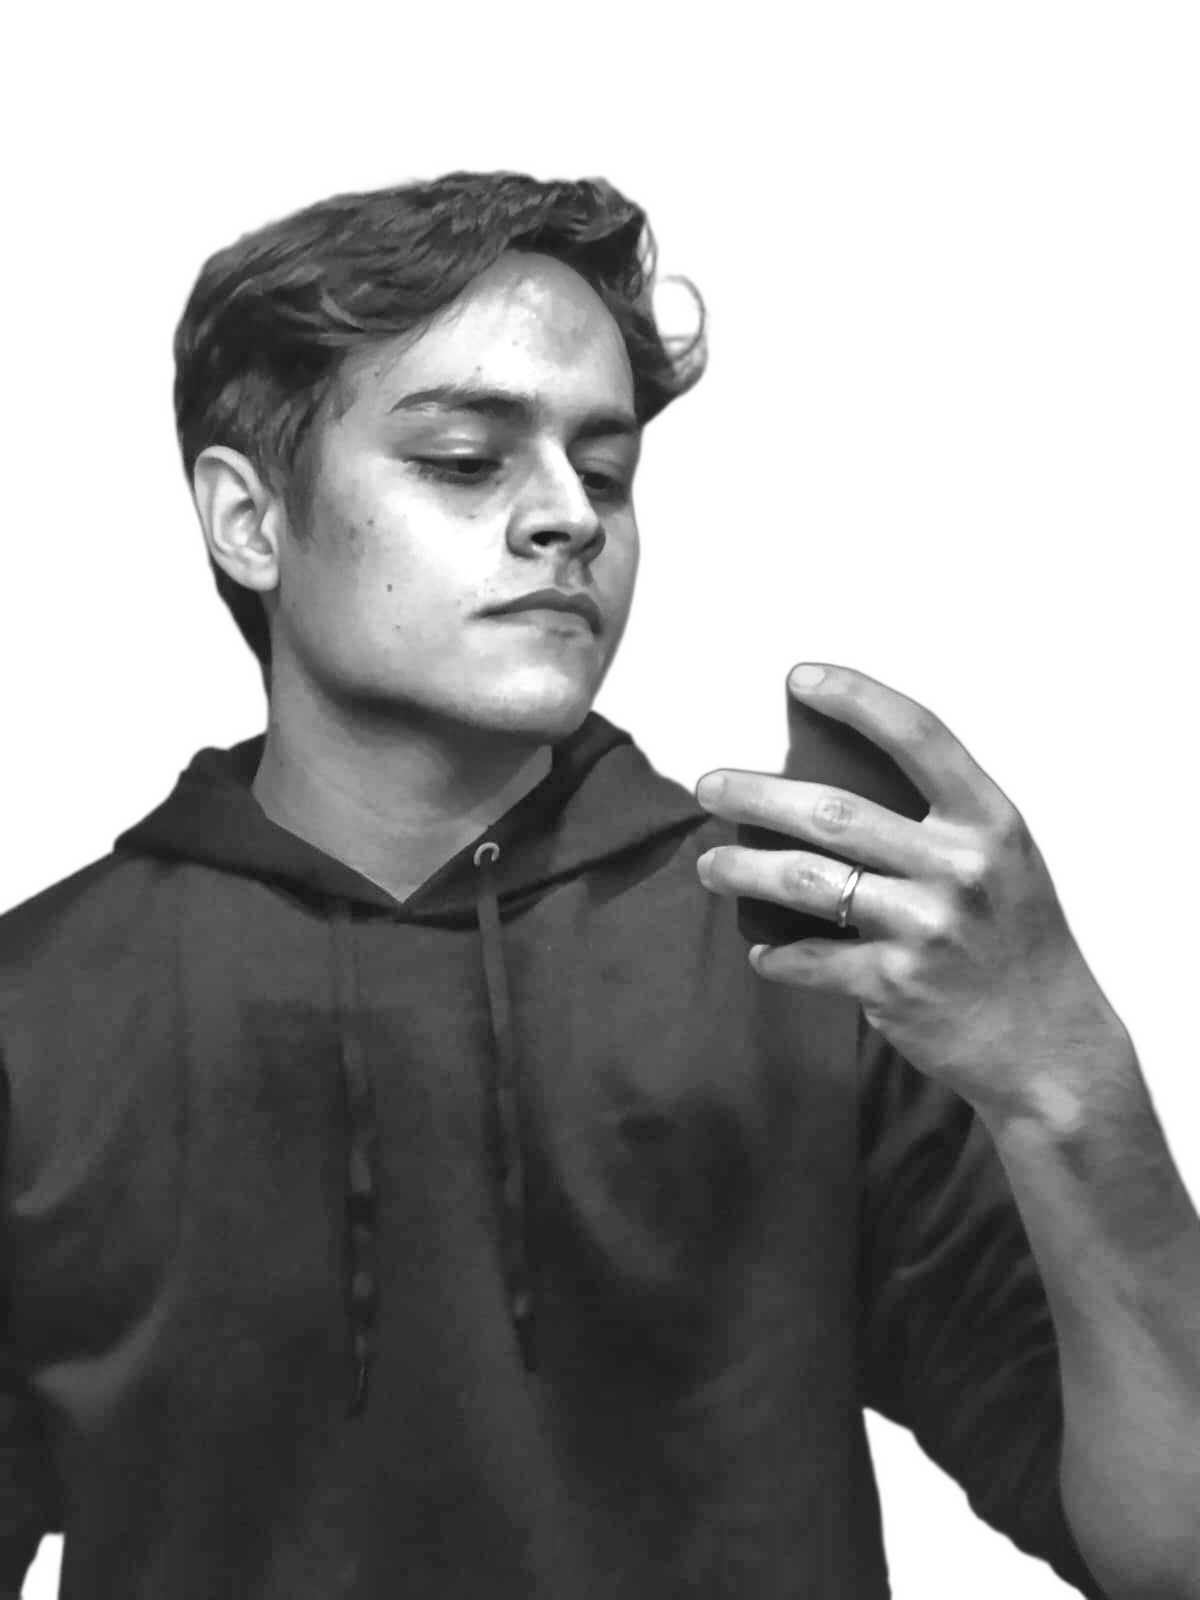
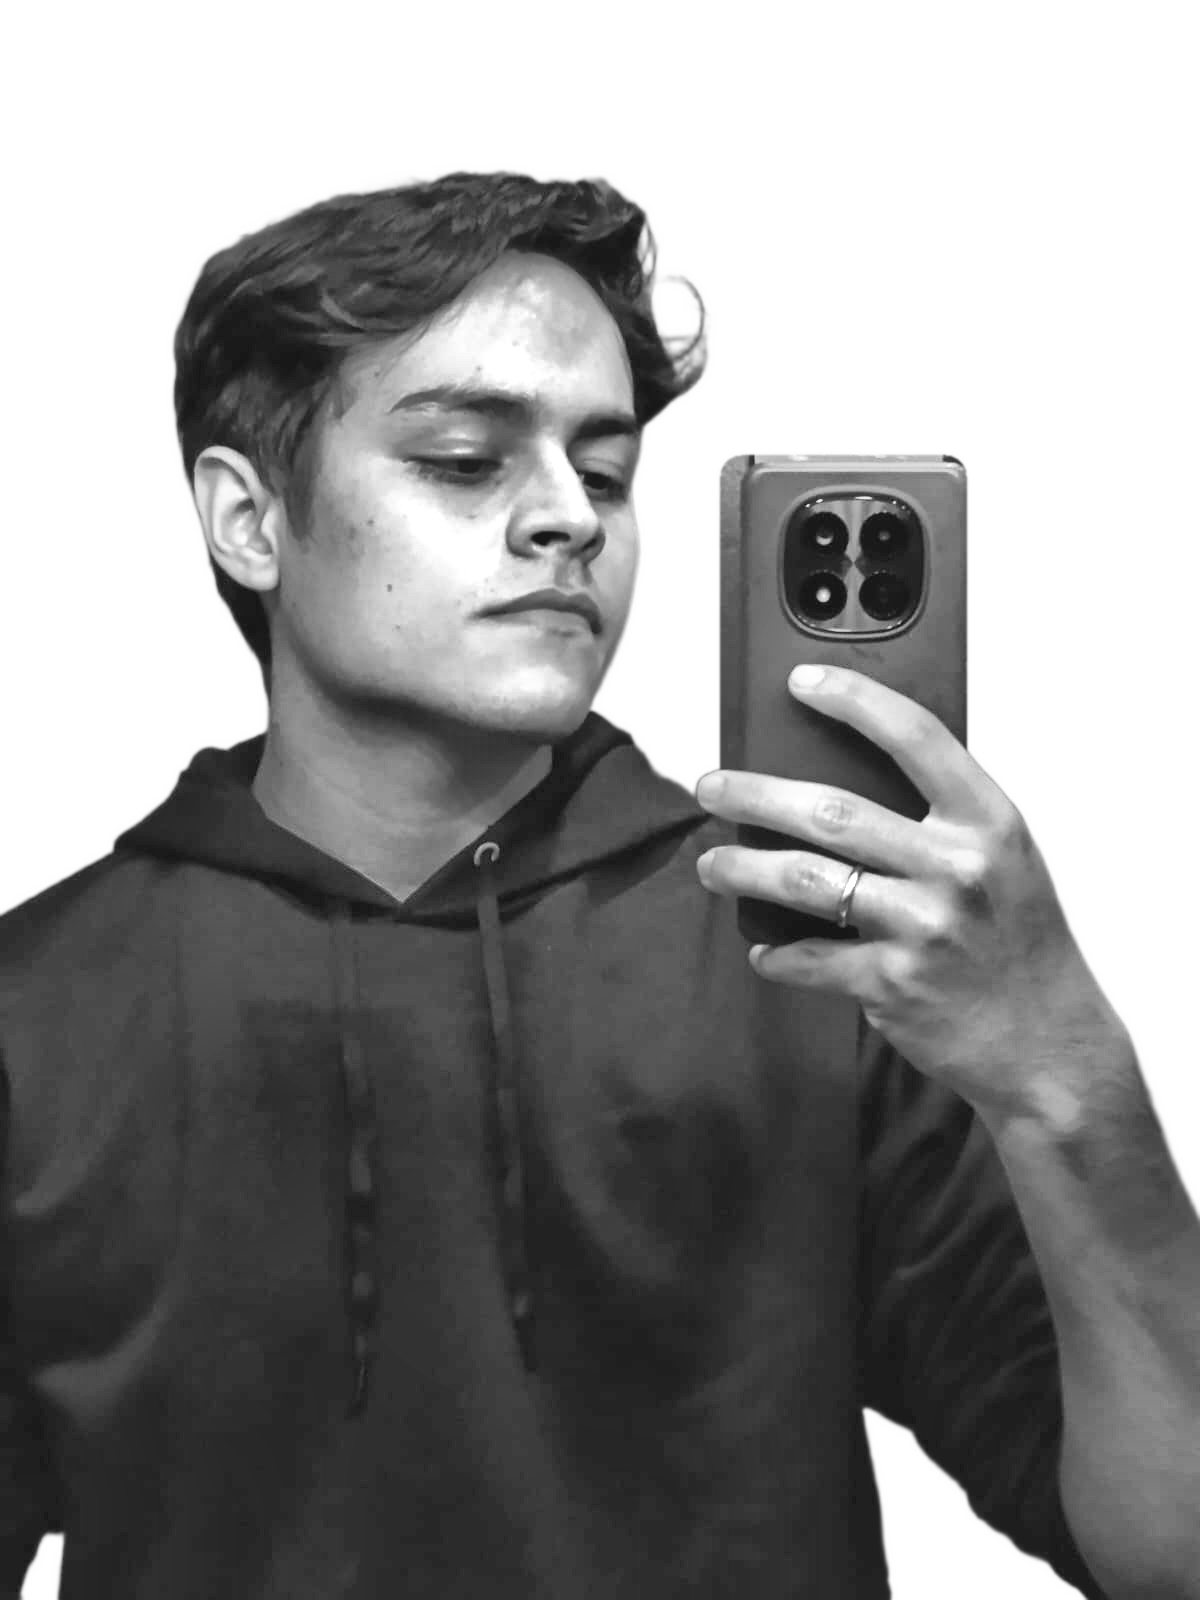
Atualiza layout e retrato ASCII do perfil

Changed region(s): [[0.5858, 0.2812, 0.8325, 0.5312], [0.4933, 0.2188, 0.555, 0.375]]

diff --git a/scripts/prep_photo.py b/scripts/prep_photo.py
@@ -23,10 +23,28 @@ HERE = os.path.dirname(os.path.abspath(__file__))
 INP = sys.argv[1] if len(sys.argv) > 1 else os.path.join(HERE, "..", "source-photo.jpg")
 OUT = sys.argv[2] if len(sys.argv) > 2 else os.path.join(HERE, "..", "source-prepped.png")
 
-# 1. cut out the subject
-cut = remove(Image.open(INP).convert("RGBA"))
-rgb = np.array(cut.convert("RGB"))
+# 1. cut out the subject. Keep RGB from the original image: rembg clears the
+# color channels of transparent pixels, but we restore the phone below.
+source = Image.open(INP).convert("RGBA")
+cut = remove(source)
+rgb = np.array(source.convert("RGB"))
 alpha = np.array(cut.split()[-1])                 # 0 = background
+
+# rembg recognizes the person and hand well, but can treat the dark phone as
+# part of the background. Preserve the phone body for this portrait using a
+# small polygon expressed as proportions of the image size, so it keeps
+# working if the source photo is resized without changing its composition.
+h, w = alpha.shape
+phone_mask = np.zeros_like(alpha)
+x1, y1 = int(w * 0.600), int(h * 0.285)
+x2, y2 = int(w * 0.805), int(h * 0.605)
+radius = max(1, int(w * 0.018))
+cv2.rectangle(phone_mask, (x1 + radius, y1), (x2 - radius, y2), 255, -1)
+cv2.rectangle(phone_mask, (x1, y1 + radius), (x2, y2 - radius), 255, -1)
+for cx, cy in ((x1 + radius, y1 + radius), (x2 - radius, y1 + radius),
+               (x1 + radius, y2 - radius), (x2 - radius, y2 - radius)):
+    cv2.circle(phone_mask, (cx, cy), radius, 255, -1)
+alpha = np.maximum(alpha, phone_mask)
 
 # 2. local-contrast the luminance (CLAHE)
 gray = cv2.cvtColor(rgb, cv2.COLOR_RGB2GRAY)

diff --git a/README.md b/README.md
@@ -2,39 +2,40 @@
 
 <h3><code>LucasGonMoreira@github ~ $ whoami</code></h3>
 
-<table>
+<table width="100%">
 <tr>
-<td valign="top"><img src="./lucas-ascii.svg" width="400" alt="Retrato ASCII de Lucas Gonçalves Moreira" /></td>
-<td valign="top"><img src="./wordmark.svg" width="400" alt="Nome de Lucas em arte ASCII 3D" /></td>
-</tr>
-</table>
-
-<br>
-<br>
-
-<br>
-<br>
+<td valign="top" align="left" width="55%">
 
 <h2>Olá, eu sou Lucas Gonçalves Moreira 👋</h2>
 
 <p><b>Analista de Redes · Monitoramento · Infraestrutura · Aspirante a Cybersecurity</b></p>
 
 <p>
-Atuo como <b>Analista de Redes</b>, com foco em infraestrutura, monitoramento e observabilidade.<br>
-Gerencio <b>máquinas virtuais, containers e servidores Proxmox</b>, contribuindo para a<br>
+Atuo como <b>Analista de Redes</b>, com foco em infraestrutura, monitoramento e observabilidade.
+Gerencio <b>máquinas virtuais, containers e servidores Proxmox</b>, contribuindo para a
 disponibilidade, organização e desempenho dos ambientes.
 </p>
 
 <p>
-Tenho conhecimentos em <b>Zabbix, Grafana e Python</b>, aplicados ao acompanhamento de ambientes,<br>
-à visualização de métricas e à automação de rotinas. Também sou <b>aspirante a Cybersecurity</b><br>
+Tenho conhecimentos em <b>Zabbix, Grafana e Python</b>, aplicados ao acompanhamento de ambientes,
+à visualização de métricas e à automação de rotinas. Também sou <b>aspirante a Cybersecurity</b>
 e estou aprendendo conceitos, práticas e ferramentas de segurança da informação.
 </p>
 
 <p>
-Atualmente trabalho na <b>Netline Telecom</b>, em Cajazeiras–PB,<br>
+Atualmente trabalho na <b>Netline Telecom</b>, em Cajazeiras–PB,
 e sigo desenvolvendo minha formação na <b>Faculdade Católica da Paraíba</b>.
 </p>
+
+</td>
+<td valign="middle" align="center" width="45%">
+<img src="./lucas-ascii.svg" width="400" alt="Retrato ASCII de Lucas Gonçalves Moreira" />
+</td>
+</tr>
+</table>
+
+<br>
+<br>
 
 <h3><code>LucasGonMoreira@github ~ $ ./links.sh</code></h3>
 
@@ -66,6 +67,36 @@ VMs, containers e servidores por meio do Proxmox.</p>
 
 <p>Estou ampliando meus conhecimentos em Docker, Wazuh, sistemas Linux e Git,<br>
 além de estudar conceitos e ferramentas de Cybersecurity.</p>
+
+<br>
+
+<h3><code>LucasGonMoreira@github ~ $ ./toolbox.sh</code></h3>
+
+<p><b>Ambiente de trabalho</b></p>
+
+![VS Code](https://img.shields.io/badge/VS_Code-007ACC?style=flat-square&logo=visualstudiocode&logoColor=white)
+![Git](https://img.shields.io/badge/Git-F05032?style=flat-square&logo=git&logoColor=white)
+
+<p><b>Infraestrutura e virtualização</b></p>
+
+![Proxmox](https://img.shields.io/badge/Proxmox-E57000?style=flat-square&logo=proxmox&logoColor=white)
+![Docker](https://img.shields.io/badge/Docker-2496ED?style=flat-square&logo=docker&logoColor=white)
+![VPS](https://img.shields.io/badge/VPS-4B5563?style=flat-square&logo=serverfault&logoColor=white)
+![Nginx](https://img.shields.io/badge/Nginx-009639?style=flat-square&logo=nginx&logoColor=white)
+![SSH](https://img.shields.io/badge/SSH-111827?style=flat-square&logo=gnubash&logoColor=white)
+
+<p><b>Sistemas operacionais</b></p>
+
+![Debian](https://img.shields.io/badge/Debian-A81D33?style=flat-square&logo=debian&logoColor=white)
+![Ubuntu](https://img.shields.io/badge/Ubuntu-E95420?style=flat-square&logo=ubuntu&logoColor=white)
+![Linux](https://img.shields.io/badge/Linux-FCC624?style=flat-square&logo=linux&logoColor=black)
+
+<p><b>Observabilidade e segurança</b></p>
+
+![Zabbix](https://img.shields.io/badge/Zabbix-D40000?style=flat-square&logo=zabbix&logoColor=white)
+![Grafana](https://img.shields.io/badge/Grafana-F46800?style=flat-square&logo=grafana&logoColor=white)
+![Wazuh](https://img.shields.io/badge/Wazuh-005571?style=flat-square&logo=wazuh&logoColor=white)
+![Python](https://img.shields.io/badge/Python-3776AB?style=flat-square&logo=python&logoColor=white)
 
 <br>
 
